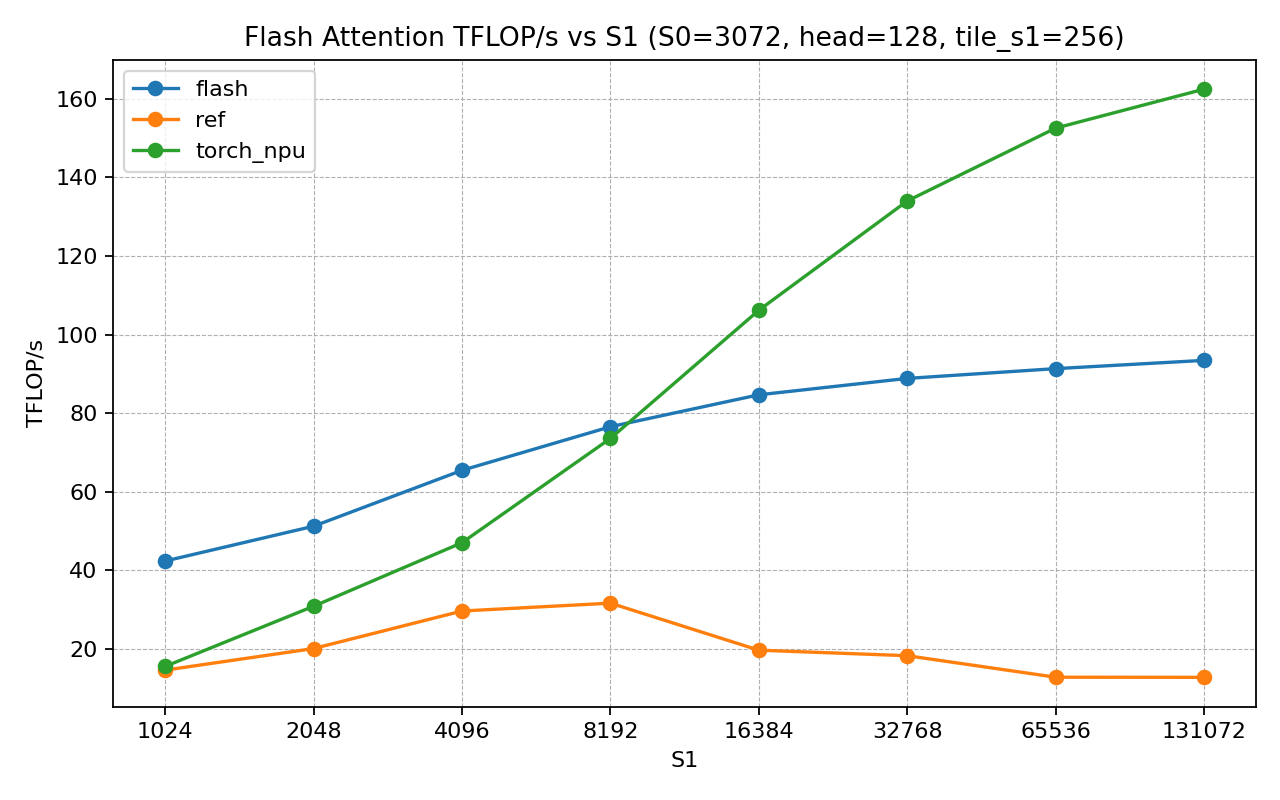
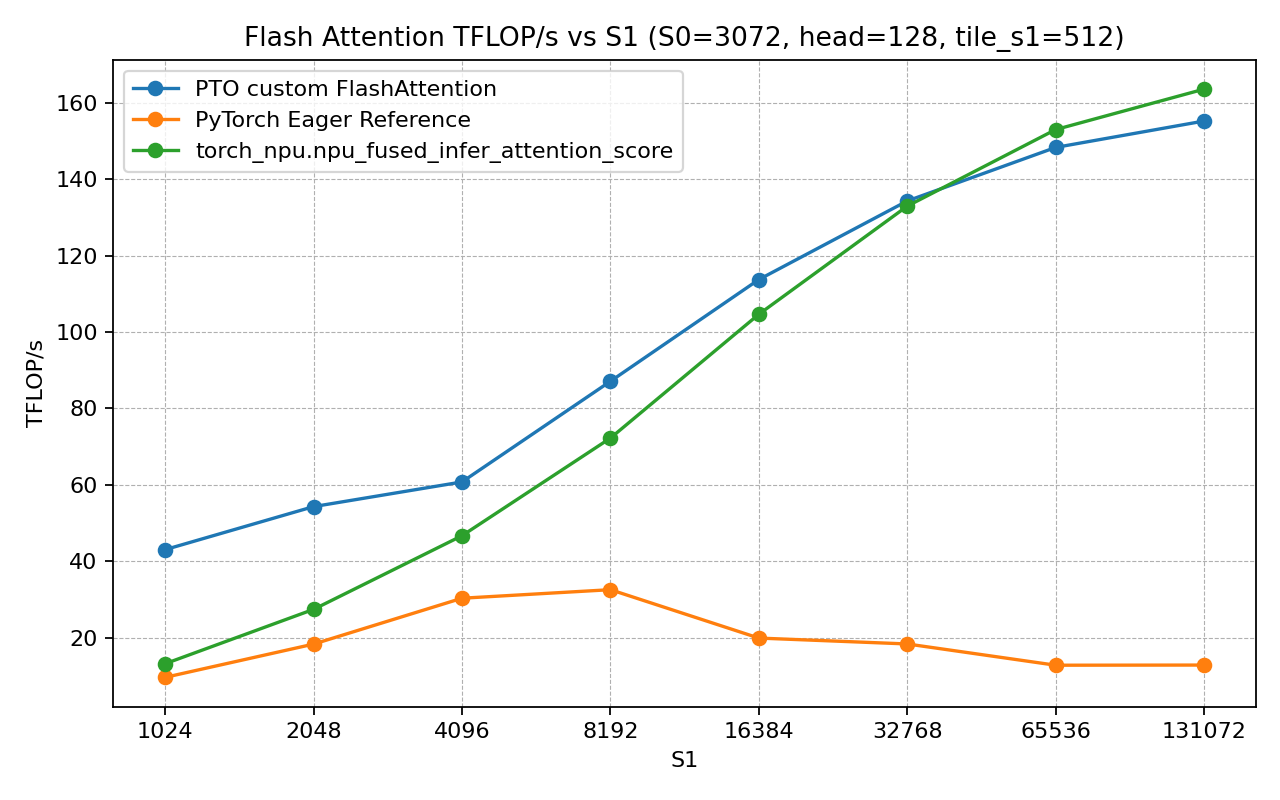
change default tile_s1 to 512 and update plots

diff --git a/examples/aot/flash_attention/cpp_ref/split_pipe/run.py b/examples/aot/flash_attention/cpp_ref/split_pipe/run.py
@@ -94,7 +94,7 @@ def fused_attention(q, k, v, is_causal=False):
     return out.squeeze(0)
 
 
-def test_flash(tile_s1: int = 256, head: int = 128):
+def test_flash(tile_s1: int = 512, head: int = 128):
     if head != 128:
         raise ValueError(
             "split_pipe generated_cases.h currently instantiates HEAD_SIZE=128 only; "
@@ -201,7 +201,7 @@ def test_flash(tile_s1: int = 256, head: int = 128):
 
 if __name__ == "__main__":
     parser = argparse.ArgumentParser()
-    parser.add_argument("--tile-s1", type=int, choices=(256, 512, 1024), default=256)
+    parser.add_argument("--tile-s1", type=int, choices=(256, 512, 1024), default=512)
     parser.add_argument("--head", type=int, choices=(128,), default=128)
     args = parser.parse_args()
     test_flash(tile_s1=args.tile_s1, head=args.head)

diff --git a/examples/aot/flash_attention/cpp_ref/simplified/run.py b/examples/aot/flash_attention/cpp_ref/simplified/run.py
@@ -95,7 +95,7 @@ def fused_attention(q, k, v, is_causal=False):
     return out.squeeze(0)
 
 
-def test_flash(tile_s1: int = 256, head: int = 128):
+def test_flash(tile_s1: int = 512, head: int = 128):
     s0 = 128 * 24
     s1_values = [1024, 2048, 4096, 8192, 16384, 32768, 64 * 1024, 128 * 1024]
     bad_s1 = [s1 for s1 in s1_values if s1 % tile_s1 != 0]

diff --git a/examples/aot/flash_attention/cpp_ref/simplified/jit_util_flash.py b/examples/aot/flash_attention/cpp_ref/simplified/jit_util_flash.py
@@ -26,7 +26,7 @@ PTO_LIB_PATH = os.environ["PTO_LIB_PATH"]
 _CV_FIFO_SIZE = 8  # CV_FIFO_SIZE
 _CUBE_S0 = 128  # CUBE_S0
 _SUPPORTED_TILE_S1 = (256, 512, 1024)
-_DEFAULT_TILE_S1 = 256
+_DEFAULT_TILE_S1 = 512
 _MAX_TILE_S1 = max(_SUPPORTED_TILE_S1)
 
 

diff --git a/examples/aot/flash_attention/cpp_ref/split_pipe/jit_util_flash.py b/examples/aot/flash_attention/cpp_ref/split_pipe/jit_util_flash.py
@@ -22,7 +22,7 @@ _CV_FIFO_SIZE = 8
 _CUBE_S0 = 128
 _CUBE_S1 = 128
 _SUPPORTED_TILE_S1 = (256, 512, 1024)
-_DEFAULT_TILE_S1 = 256
+_DEFAULT_TILE_S1 = 512
 
 
 def torch_to_ctypes(t: torch.Tensor) -> ctypes.c_void_p:
